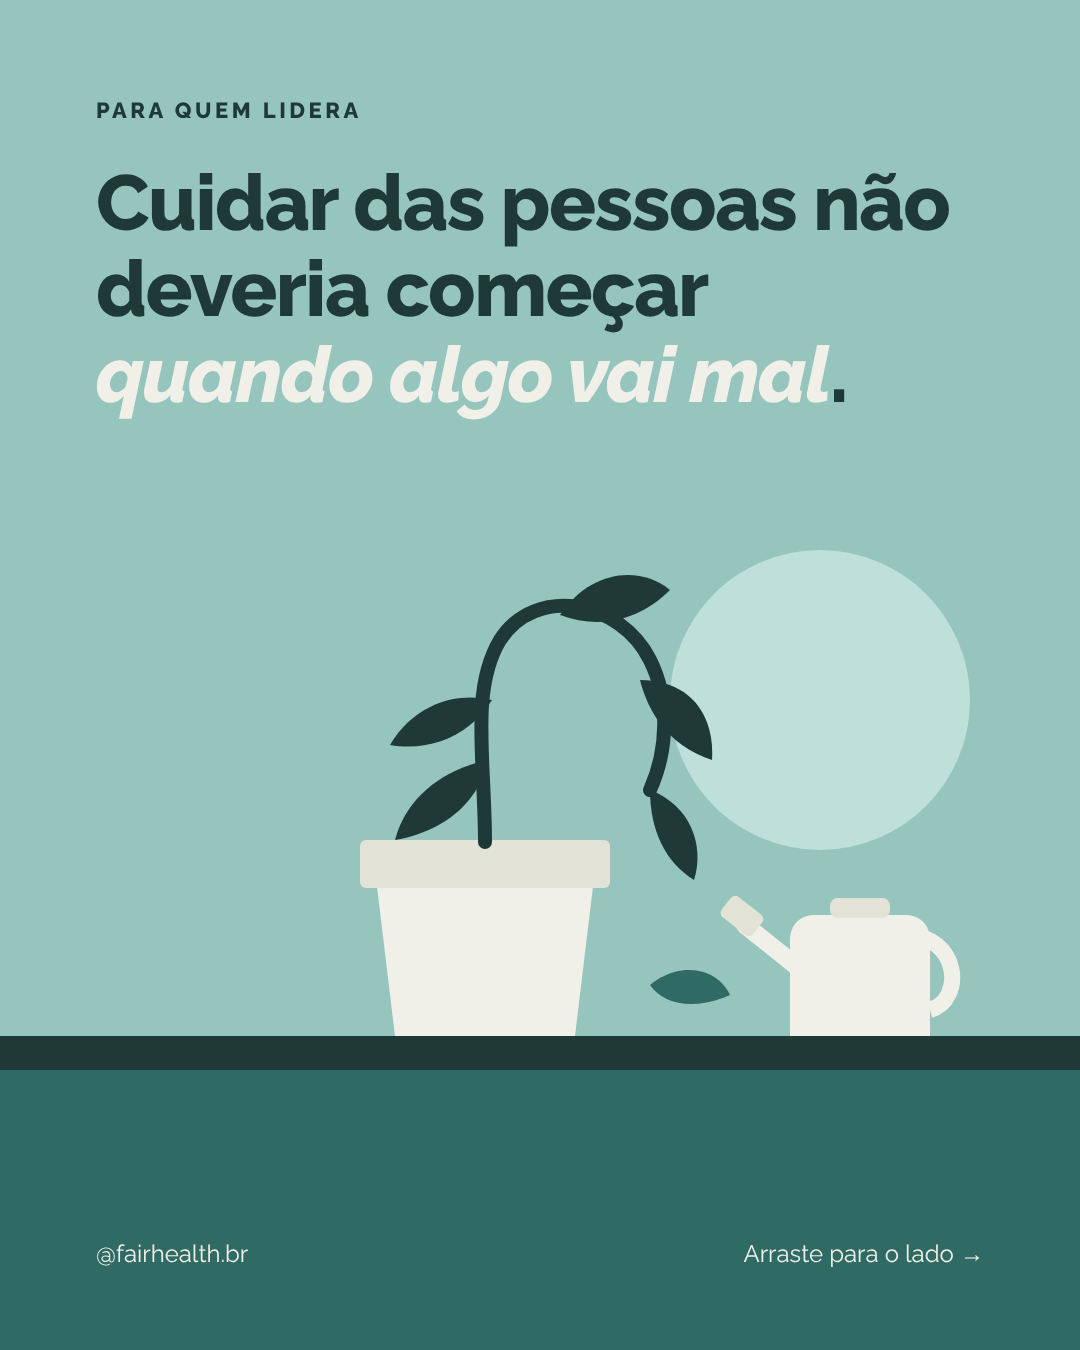
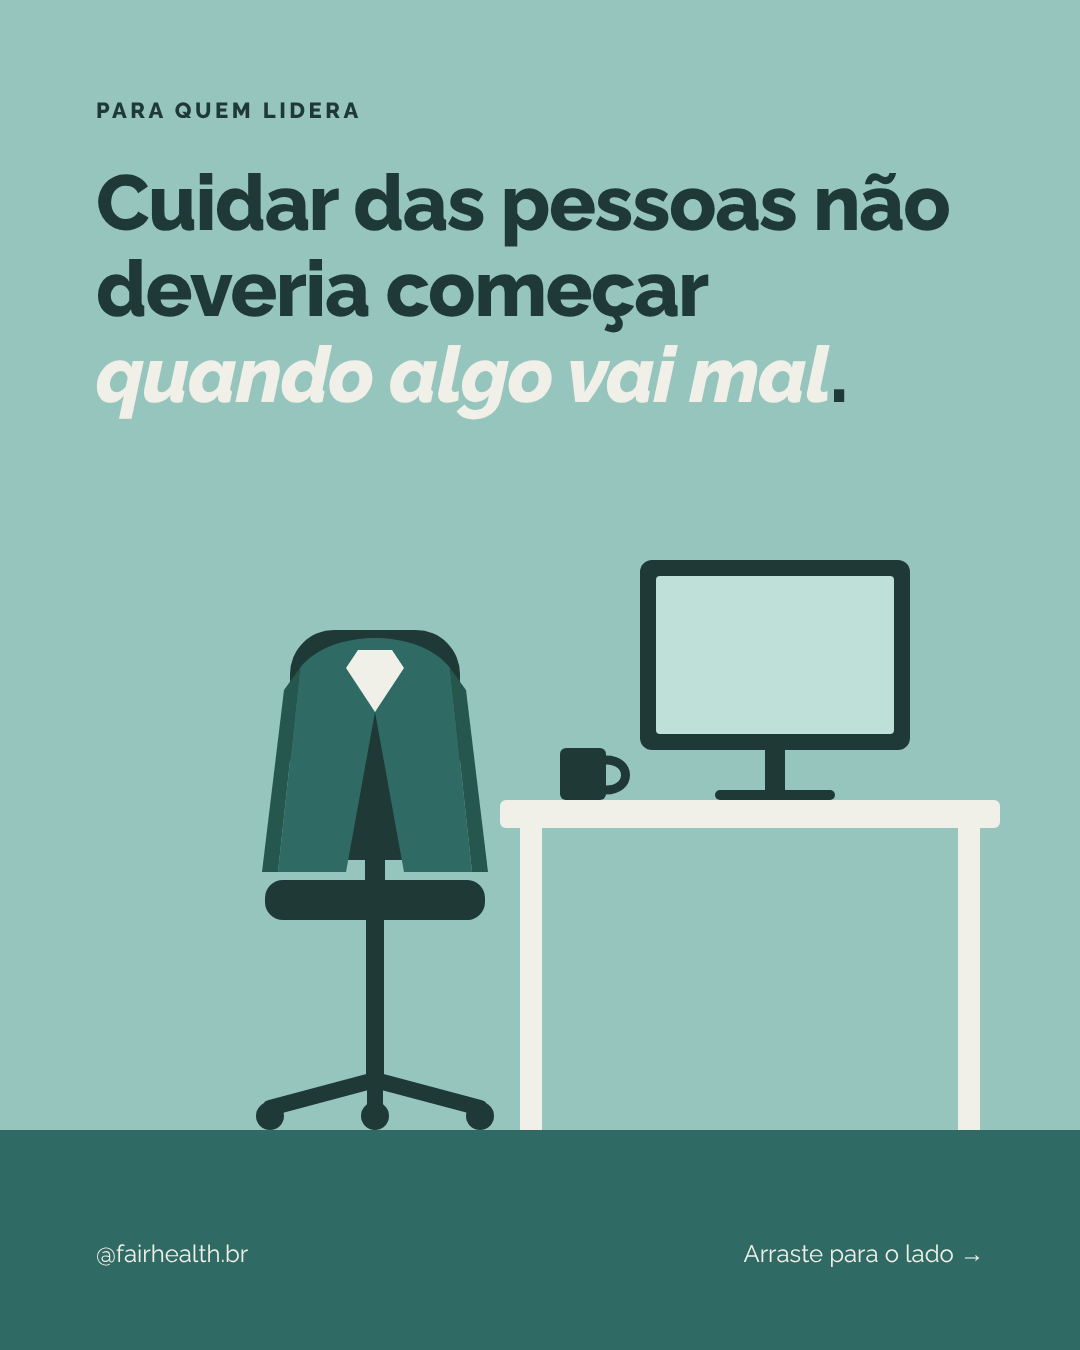
Post de 23/10: capa com cadeira vazia no lugar da planta
A cadeira de escritório vazia, com o blazer no encosto e o computador ligado,
mostra o "quando algo vai mal" de forma direta para quem lidera.

Claude-Session: https://claude.ai/code/session_01AT12TFVzUAVTgLfy1Dm4iN

Changed region(s): [[0.0, 0.4044, 1.0, 0.84]]

diff --git a/instagram/posts/cuidar-antes/slides.html b/instagram/posts/cuidar-antes/slides.html
@@ -41,23 +41,28 @@ svg.cheia{left:0;top:0;width:1080px;height:1350px}
   <p class="rot">Para quem lidera</p>
   <p class="tit" style="left:96px;top:160px;width:888px;font-size:78px;line-height:86px;font-weight:800;letter-spacing:-0.02em">Cuidar das pessoas não deveria começar <span class="k" style="color:var(--creme)">quando algo vai mal</span>.</p>
   <svg class="cheia" viewBox="0 0 1080 1350" aria-hidden="true">
-    <circle cx="820" cy="700" r="150" fill="#BFE0D9"/>
-    <rect x="0" y="1060" width="1080" height="290" fill="#2F6B64"/>
-    <rect x="0" y="1036" width="1080" height="34" fill="#1F3A36"/>
-    <path d="M395 1036L375 870H595L575 1036Z" fill="#F0F0E9"/>
-    <rect x="360" y="840" width="250" height="48" rx="6" fill="#E2E2D6"/>
-    <path d="M485 842C485 760 470 690 500 640C535 585 620 600 650 660C670 700 668 750 650 790" fill="none" stroke="#1F3A36" stroke-width="14" stroke-linecap="round"/>
-    <path d="M488 760C440 770 405 800 395 840C440 832 478 806 488 760Z" fill="#1F3A36"/>
-    <path d="M492 700C450 690 410 710 390 745C432 752 470 735 492 700Z" fill="#1F3A36"/>
-    <path d="M560 615C590 570 640 565 670 590C640 620 600 630 560 615Z" fill="#1F3A36"/>
-    <path d="M640 680C690 680 715 715 712 760C675 748 650 720 640 680Z" fill="#1F3A36"/>
-    <path d="M650 790C690 805 705 845 694 880C665 862 650 830 650 790Z" fill="#1F3A36"/>
-    <path d="M650 985C680 960 718 968 730 995C695 1010 665 1006 650 985Z" fill="#2F6B64"/>
-    <path d="M790 1036V940C790 925 800 915 815 915H905C920 915 930 925 930 940V1036Z" fill="#F0F0E9"/>
-    <path d="M905 935C960 935 965 1000 930 1010" fill="none" stroke="#F0F0E9" stroke-width="16"/>
-    <path d="M795 965L745 925" stroke="#F0F0E9" stroke-width="18" stroke-linecap="round"/>
-    <rect x="722" y="903" width="40" height="26" rx="6" transform="rotate(38 742 916)" fill="#E2E2D6"/>
-    <rect x="830" y="898" width="60" height="20" rx="8" fill="#E2E2D6"/>
+    <rect x="0" y="1130" width="1080" height="220" fill="#2F6B64"/>
+    <rect x="500" y="800" width="500" height="28" rx="6" fill="#F0F0E9"/>
+    <rect x="520" y="828" width="22" height="302" fill="#F0F0E9"/>
+    <rect x="958" y="828" width="22" height="302" fill="#F0F0E9"/>
+    <rect x="640" y="560" width="270" height="190" rx="12" fill="#1F3A36"/>
+    <rect x="656" y="576" width="238" height="158" rx="4" fill="#BFE0D9"/>
+    <rect x="765" y="750" width="20" height="44" fill="#1F3A36"/>
+    <rect x="715" y="790" width="120" height="10" rx="5" fill="#1F3A36"/>
+    <rect x="560" y="748" width="46" height="52" rx="6" fill="#1F3A36"/>
+    <path d="M606 760C632 760 632 790 606 790" fill="none" stroke="#1F3A36" stroke-width="9"/>
+    <rect x="290" y="630" width="170" height="230" rx="44" fill="#1F3A36"/>
+    <rect x="365" y="850" width="20" height="40" fill="#1F3A36"/>
+    <rect x="265" y="880" width="220" height="40" rx="18" fill="#1F3A36"/>
+    <rect x="366" y="920" width="18" height="160" fill="#1F3A36"/>
+    <path d="M375 1080L270 1108M375 1080L480 1108M375 1080V1110" stroke="#1F3A36" stroke-width="16" stroke-linecap="round"/>
+    <circle cx="270" cy="1116" r="14" fill="#1F3A36"/>
+    <circle cx="480" cy="1116" r="14" fill="#1F3A36"/>
+    <circle cx="375" cy="1116" r="14" fill="#1F3A36"/>
+    <path d="M300 668C330 628 420 628 450 668L472 872H404L375 712L346 872H278Z" fill="#2F6B64"/>
+    <path d="M346 668L375 712L404 668L392 650H358Z" fill="#F0F0E9"/>
+    <path d="M300 668L278 872H262L284 690Z" fill="#26574F"/>
+    <path d="M450 668L472 872H488L466 690Z" fill="#26574F"/>
   </svg>
   <style>#c01 .handle,#c01 .arr{color:var(--creme)}</style>
   <p class="handle">@fairhealth.br</p>

diff --git a/instagram/posts/cuidar-antes/gerar_slides.py b/instagram/posts/cuidar-antes/gerar_slides.py
@@ -69,28 +69,33 @@ def pag(i):
 S = []
 
 # 1 · capa (v2, 20/10): ilustração chapada, no estilo dos pôsteres de design universal que a Nina mandou: cor única
-#   de fundo, título em negrito no topo, figura grande sem contorno embaixo. A planta murchando na mesa é o "quando algo
-#   vai mal"; o regador parado ao lado é o cuidado que podia ter vindo antes.
+#   de fundo, título em negrito no topo, figura grande sem contorno embaixo. A cadeira vazia, com o casaco no encosto e o
+#   computador ligado, é o "quando algo vai mal": a pessoa já não está ali.
 S.append(('c01', 't', 'capa: cuidar das pessoas antes, não depois (ilustrada)', '''<p class="rot">Para quem lidera</p>
   <p class="tit" style="left:96px;top:160px;width:888px;font-size:78px;line-height:86px;font-weight:800;letter-spacing:-0.02em">Cuidar das pessoas não deveria começar <span class="k" style="color:var(--creme)">quando algo vai mal</span>.</p>
   <svg class="cheia" viewBox="0 0 1080 1350" aria-hidden="true">
-    <circle cx="820" cy="700" r="150" fill="#BFE0D9"/>
-    <rect x="0" y="1060" width="1080" height="290" fill="#2F6B64"/>
-    <rect x="0" y="1036" width="1080" height="34" fill="#1F3A36"/>
-    <path d="M395 1036L375 870H595L575 1036Z" fill="#F0F0E9"/>
-    <rect x="360" y="840" width="250" height="48" rx="6" fill="#E2E2D6"/>
-    <path d="M485 842C485 760 470 690 500 640C535 585 620 600 650 660C670 700 668 750 650 790" fill="none" stroke="#1F3A36" stroke-width="14" stroke-linecap="round"/>
-    <path d="M488 760C440 770 405 800 395 840C440 832 478 806 488 760Z" fill="#1F3A36"/>
-    <path d="M492 700C450 690 410 710 390 745C432 752 470 735 492 700Z" fill="#1F3A36"/>
-    <path d="M560 615C590 570 640 565 670 590C640 620 600 630 560 615Z" fill="#1F3A36"/>
-    <path d="M640 680C690 680 715 715 712 760C675 748 650 720 640 680Z" fill="#1F3A36"/>
-    <path d="M650 790C690 805 705 845 694 880C665 862 650 830 650 790Z" fill="#1F3A36"/>
-    <path d="M650 985C680 960 718 968 730 995C695 1010 665 1006 650 985Z" fill="#2F6B64"/>
-    <path d="M790 1036V940C790 925 800 915 815 915H905C920 915 930 925 930 940V1036Z" fill="#F0F0E9"/>
-    <path d="M905 935C960 935 965 1000 930 1010" fill="none" stroke="#F0F0E9" stroke-width="16"/>
-    <path d="M795 965L745 925" stroke="#F0F0E9" stroke-width="18" stroke-linecap="round"/>
-    <rect x="722" y="903" width="40" height="26" rx="6" transform="rotate(38 742 916)" fill="#E2E2D6"/>
-    <rect x="830" y="898" width="60" height="20" rx="8" fill="#E2E2D6"/>
+    <rect x="0" y="1130" width="1080" height="220" fill="#2F6B64"/>
+    <rect x="500" y="800" width="500" height="28" rx="6" fill="#F0F0E9"/>
+    <rect x="520" y="828" width="22" height="302" fill="#F0F0E9"/>
+    <rect x="958" y="828" width="22" height="302" fill="#F0F0E9"/>
+    <rect x="640" y="560" width="270" height="190" rx="12" fill="#1F3A36"/>
+    <rect x="656" y="576" width="238" height="158" rx="4" fill="#BFE0D9"/>
+    <rect x="765" y="750" width="20" height="44" fill="#1F3A36"/>
+    <rect x="715" y="790" width="120" height="10" rx="5" fill="#1F3A36"/>
+    <rect x="560" y="748" width="46" height="52" rx="6" fill="#1F3A36"/>
+    <path d="M606 760C632 760 632 790 606 790" fill="none" stroke="#1F3A36" stroke-width="9"/>
+    <rect x="290" y="630" width="170" height="230" rx="44" fill="#1F3A36"/>
+    <rect x="365" y="850" width="20" height="40" fill="#1F3A36"/>
+    <rect x="265" y="880" width="220" height="40" rx="18" fill="#1F3A36"/>
+    <rect x="366" y="920" width="18" height="160" fill="#1F3A36"/>
+    <path d="M375 1080L270 1108M375 1080L480 1108M375 1080V1110" stroke="#1F3A36" stroke-width="16" stroke-linecap="round"/>
+    <circle cx="270" cy="1116" r="14" fill="#1F3A36"/>
+    <circle cx="480" cy="1116" r="14" fill="#1F3A36"/>
+    <circle cx="375" cy="1116" r="14" fill="#1F3A36"/>
+    <path d="M300 668C330 628 420 628 450 668L472 872H404L375 712L346 872H278Z" fill="#2F6B64"/>
+    <path d="M346 668L375 712L404 668L392 650H358Z" fill="#F0F0E9"/>
+    <path d="M300 668L278 872H262L284 690Z" fill="#26574F"/>
+    <path d="M450 668L472 872H488L466 690Z" fill="#26574F"/>
   </svg>
   <style>#c01 .handle,#c01 .arr{color:var(--creme)}</style>'''))
 

diff --git a/instagram/posts/cuidar-antes/README.md b/instagram/posts/cuidar-antes/README.md
@@ -26,8 +26,12 @@
 
 - A Nina pediu a capa no estilo dos pôsteres de design universal ("About to crash?", "Can you read this?"): uma cor
   de fundo, o título em negrito no topo e uma ilustração grande e sem contorno embaixo.
-- A cena mostra uma planta murchando sobre a mesa, que é o "quando algo vai mal", e um regador parado ao lado, que
-  é o cuidado que podia ter vindo antes. Tudo em SVG, com as cores da marca: Tiffany, verde, verde do logo e creme.
+- A cena é uma cadeira de escritório vazia, com o blazer no encosto, ao lado da mesa com o computador ligado e a
+  caneca. A pessoa já não está ali: é o "quando algo vai mal", sem falar em atestado. Tudo em SVG, com as cores da
+  marca: Tiffany, verde, verde do logo e creme.
+- O blazer é verde, e não creme, para não parecer jaleco de médico.
+- A primeira tentativa foi uma planta murchando com um regador ao lado. A Nina não aprovou, porque a metáfora era
+  indireta demais para um CEO.
 - O texto continua o mesmo da v4. Só mudou o destaque em creme, para contrastar com a ilustração.
 - Os slides 2 a 7 continuam iguais aos da v1. A `previa.jpg` ainda mostra a capa v1.
 
